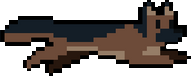
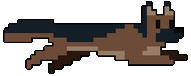
added sheepsight so they can see eachother and somtimes choose to clump up, like regular sheep do be doing

diff --git a/main.py b/main.py
@@ -9,6 +9,7 @@ from pygame.locals import *
 from Walls import Wall
 from animals.Dog import Dog
 from animals.Sheep import Sheep
+from util.Trailcell import Trailcell
 
 pygame.display.set_caption('Chase')
 sim_window = 800
@@ -96,6 +97,9 @@ def convertColor(color):
 def isInside(center, body):
     return pow(body.rect.x - center.rect.x, 2) + pow(body.rect.y - center.rect.y, 2) <= pow(center.rad, 2)
 
+def canSheepSee(center, body):
+    return pow(body.rect.x - center.rect.x, 2) + pow(body.rect.y - center.rect.y, 2) <= pow(center.sheepSee, 2)
+
 
 def drawCircle(body):
     pygame.draw.circle(window, body.color, [body.rect.x, body.rect.y], body.rad, 1)
@@ -110,11 +114,18 @@ def drawImg(body):
     window.blit(img, (x, y))
 
 
+def drawTrail(body):
+    if body.type == "SHEEP":
+        for trailCell in body.trail:
+            pygame.draw.rect(window, trailCell.color, trailCell.rect)
+
+
 def draw(body):
     pygame.draw.rect(window, body.color, body.rect)
     drawCircle(body)
     drawPenWalls()
     drawImg(body)
+    drawTrail(body)
 
 
 def toggleInPen(body):
@@ -189,20 +200,57 @@ def moveAway(body, bodies, index):
                 if 135 < angle < 180:
                     move(bodies[i], speed, -speedMod)
 
+def moveTo(body, bodies, index):
+    for i in range(len(bodies)):
+        if index != i:
+            if bodies[i].type == "SHEEP" and canSheepSee(body, bodies[i]):
+                (dx, dy) = (bodies[i].rect.x - body.rect.x, bodies[i].rect.y - body.rect.y)
+                angle = math.degrees(math.atan2(float(dx), float(dy)))
+                speed = body.speed
+                speedMod = speed * 1.5
+
+                if -180 <= angle <= -135:
+                    move(bodies[i], speed, speedMod)
+
+                if -135 <= angle <= -90:
+                    move(bodies[i], speedMod, speed)
+                if -90 <= angle <= -45:
+                    move(bodies[i], speedMod, -speed)
+
+                if -45 <= angle <= 0:
+                    move(bodies[i], speed, -speedMod)
+
+                if 0 <= angle <= 45:
+                    move(bodies[i], -speed, -speedMod)
+
+                if 45 <= angle <= 90:
+                    move(bodies[i], -speedMod, -speed)
+                if 90 <= angle <= 135:
+                    move(bodies[i], -speedMod, speed)
+
+                if 135 <= angle <= 180:
+                    move(bodies[i], -speed, speedMod)
+
+                return
 
 #  0 1 2
 #  3 4 5
 #  6 7 8
-def randMove(body, rand):
-    if rand <= 2:
-        move(bodies[i], 0, -body.speed)
-    elif rand >= 6:
-        move(bodies[i], 0, body.speed)
+def randMove(body, rand, i):
+    #
+    if body.type == "SHEEP" and random.randint(0,10) == 0:
+        moveTo(body, bodies, i)
+    else:
+        if random.randint(0, 5) == 0:
+            if rand <= 2:
+                move(body, 0, -body.speed)
+            elif rand >= 6:
+                move(body, 0, body.speed)
 
-    if rand % 3 == 0:
-        move(bodies[i], -body.speed, 0)
-    elif (rand - 2) % 3 == 0:
-        move(bodies[i], body.speed, 0)
+            if rand % 3 == 0:
+                move(body, -body.speed, 0)
+            elif (rand - 2) % 3 == 0:
+                move(body, body.speed, 0)
 
 
 def addBodies(count, type, color, x, y, rad, speed):
@@ -242,7 +290,7 @@ def checkKeyEvents(body, keys, currentSprite):
     if event.type == KEYDOWN and event.key == K_s or keys[pygame.K_s]:
         body.SisPressed = True
     elif event.type == KEYUP and event.key == K_s or keys[pygame.K_s]:
-        body.SisPressed = False
+         body.SisPressed = False
 
     if event.type == KEYDOWN and event.key == K_d or keys[pygame.K_d]:
         body.setDisPressed(True)
@@ -283,7 +331,7 @@ def checkMoveKeys(body):
 
 
 bodies = (addBodies(1, "DOG", "TAN", getRand(), getRand(), rad=100, speed=3) +
-          addBodies(10, "SHEEP", "WHITE", getRand(), getRand(), rad=10, speed=1.5))
+          addBodies(50, "SHEEP", "WHITE", getRand(), getRand(), rad=10, speed=1.5))
 
 addRunFrame = USEREVENT + 1
 pygame.time.set_timer(addRunFrame, 150)
@@ -315,7 +363,7 @@ while 1:
     for i in range(len(bodies)):
         moveAway(bodies[i], bodies, i)
         if bodies[i].randMove:
-            randMove(bodies[i], random.randint(0, 8))
+            randMove(bodies[i], random.randint(0, 8), i)
 
         toggleInPen(bodies[i])
         if bodies[i].inPen:

diff --git a/animals/Dog.py b/animals/Dog.py
@@ -13,10 +13,10 @@ class Dog(Body):
         self.sneak = False
         self.sneakRad = rad / 2
         self.sneakImg = pygame.transform.scale(pygame.image.load("img/dogSneak.png"), (75, 35))
-        self.runImgArray = [pygame.transform.scale(pygame.image.load("img/dogRun0.png"), (80, 45)),
+        self.runImgArray = [pygame.transform.scale(pygame.image.load("img/dogRun0.png"), (90, 55)),
                             pygame.transform.scale(pygame.image.load("img/dogRun1.png"), (105, 50)),
-                            pygame.transform.scale(pygame.image.load("img/dogRun2.png"), (105, 50)),
-                            pygame.transform.scale(pygame.image.load("img/dogRun3.png"), (85, 38))]
+                            pygame.transform.scale(pygame.image.load("img/dogRun2.png"), (110, 55)),
+                            pygame.transform.scale(pygame.image.load("img/dogRun3.png"), (100, 40))]
         self.img = self.runImgArray[0]
 
     def setSneak(self):

diff --git a/animals/Sheep.py b/animals/Sheep.py
@@ -1,6 +1,8 @@
 import pygame
 
+from collections import deque
 from animals.Body import Body
+from util.Trailcell import Trailcell
 
 
 class Sheep(Body):
@@ -8,9 +10,18 @@ class Sheep(Body):
         super().__init__(type, color, x, y, rad, speed, width, height)
         self.randMove = True
         self.img = pygame.transform.scale(pygame.image.load("img/sheep.png"), (25, 35))
+        self.trail = deque()
+        self.sheepSee = 100
 
     def setAisPressed(self, isPressed):
         self.AisPressed = isPressed
 
     def setDisPressed(self, isPressed):
         self.DisPressed = isPressed
+
+    def addTrail(self, trailCell):
+        if len(self.trail) > 200:
+            self.trail.pop()
+        self.trail.appendleft(trailCell)
+
+

diff --git a/util/Trailcell.py b/util/Trailcell.py
@@ -1,0 +1,10 @@
+import pygame
+
+class Trailcell:
+    def __init__(self, x, y, lifespan):
+        self.rect = pygame.Rect(x, y, 2, 2)
+        self.lifespan = lifespan
+        self.timeLeft = lifespan
+        self.color = (255,0,0)
+
+
